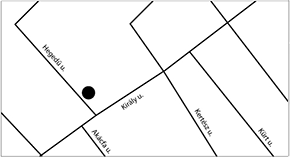
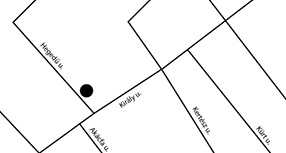
fixed css: legend, map, datepicker

diff --git a/assets/css/style.css b/assets/css/style.css
@@ -176,6 +176,11 @@ body {
 body {
   font-family: 'Source Sans Pro', arial, verdana;
 }
+#ui-datepicker-div {
+  -moz-box-shadow: 8px 8px 15px #555;
+  -webkit-box-shadow: 8px 8px 15px #555;
+  box-shadow: 8px 8px 15px #555;
+}
 body#intro_page {
   overflow: hidden;
   background-image: url('../img/intro/bg_grid_2.gif');
@@ -256,10 +261,38 @@ body#main_page #wrapper_content #logo_small {
   margin-left: 100px;
 }
 body#main_page #wrapper_content #legend {
-  width: 679px;
   height: 59px;
   margin-left: 80px;
-  margin-top: -30px;
+  margin-top: -15px;
+  text-align: left;
+}
+body#main_page #wrapper_content #legend div {
+  display: inline-block;
+  float: left;
+  width: 120px;
+  height: 25px;
+  margin-left: 10px;
+  margin-top: 2px;
+}
+body#main_page #wrapper_content #legend #icon_unavailable,
+body#main_page #wrapper_content #legend #icon_available,
+body#main_page #wrapper_content #legend #icon_reserved {
+  width: 70px;
+  margin-top: 0px;
+  border: 1px solid black;
+  -moz-box-shadow: 8px 8px 15px #CCCCCC;
+  -webkit-box-shadow: 8px 8px 15px #CCCCCC;
+  box-shadow: 8px 8px 15px #CCCCCC;
+}
+body#main_page #wrapper_content #legend #icon_unavailable {
+  background-color: lightgrey;
+}
+body#main_page #wrapper_content #legend #icon_available {
+  background-color: white;
+}
+body#main_page #wrapper_content #legend #icon_reserved {
+  background-image: url('../img/main/reserved.png');
+  background-size: 70px 25px;
 }
 body#main_page #wrapper_content #prev_month,
 body#main_page #wrapper_content #arrow_left,

diff --git a/assets/css/style.less b/assets/css/style.less
@@ -11,6 +11,12 @@ body {
 	font-family: 'Source Sans Pro', arial, verdana;
 }
 
+#ui-datepicker-div {
+		 -moz-box-shadow: 8px 8px 15px #555;
+	-webkit-box-shadow: 8px 8px 15px #555;
+					box-shadow: 8px 8px 15px #555;
+}
+
 /////// intro page ////////////////////////////////////////////////////////////
 
 body#intro_page {
@@ -112,10 +118,42 @@ body#main_page {
 			
 		
 		#legend {
-			width: 679px;
+			//width: 679px;
 			height: 59px;
 			margin-left: 80px;
-			margin-top: -30px;
+			margin-top: -15px;
+			text-align: left;
+			
+			div {
+				display: inline-block;
+				float: left;
+				width: 120px;
+				height: 25px;
+				margin-left: 10px;
+				margin-top: 2px;
+			}
+			
+			#icon_unavailable, #icon_available, #icon_reserved {
+				width: 70px;
+				margin-top: 0px;
+				border: 1px solid black;
+					 -moz-box-shadow: 8px 8px 15px #CCCCCC;
+				-webkit-box-shadow: 8px 8px 15px #CCCCCC;
+								box-shadow: 8px 8px 15px #CCCCCC;
+			}
+			
+			#icon_unavailable {
+				background-color: lightgrey;
+			}
+			
+			#icon_available {
+				background-color: white;
+			}
+			
+			#icon_reserved {
+				background-image: url('../img/main/reserved.png');
+				background-size: 70px 25px;
+			}
 		}
 		
 		#prev_month, #arrow_left, #next_month, #arrow_right {

diff --git a/application/views/booking/booking_js.php b/application/views/booking/booking_js.php
@@ -37,7 +37,7 @@
 	// left menu items
 	
 	var item_info = 'Lorem ipsum dolor sit amet, consectetur adipisicing elit, sed do eiusmod tempor incididunt ut labore et dolore magna aliqua. Ut enim ad minim veniam, quis nostrud exercitation ullamco laboris nisi ut aliquip ex ea commodo consequat. Duis aute irure dolor in reprehenderit in voluptate velit esse cillum dolore eu fugiat nulla pariatur. Excepteur sint occaecat cupidatat non proident, sunt in culpa qui officia deserunt mollit anim id est laborum.';
-	var item_map = '<img id="map" src="<?= base_url() ?>assets/img/main/map.png" alt="" title="" />';
+	var item_map = '<img id="map" src="<?= base_url() ?>assets/img/main/map.png" alt="" title="" style="margin-left: -15px; border: 1px solid black; -moz-box-shadow: 8px 8px 15px #CCCCCC; -webkit-box-shadow: 8px 8px 15px #CCCCCC; box-shadow: 8px 8px 15px #CCCCCC;"/>';
 	var item_contact = 'Budapest 1023<br/>Akármi  utca 16.<br/>T.: 0036/12321315<br/>info@funlock.hu';
 	
 	function replaceAll(txt, replace, with_this) {

diff --git a/application/views/booking/booking.php b/application/views/booking/booking.php
@@ -18,7 +18,14 @@
 				<span id="table_wrapper"><?php $this->load->view('booking/calendar', array('reserved_dates' => $reserved_dates, 'ref_time' => time(), 'selected_appointment' => 0)); ?></span>
 				<span id="next_month"><?= img(array('src' => base_url().'assets/img/main/arrow_right.png', 'id' => 'arrow_right')) ?></span>
 			</div>
-			<?= img(array('src' => base_url().'assets/img/main/legend.png', 'id' => 'legend')) ?>
+			<div id="legend">
+				<div id="icon_unavailable"></div>
+				<div>Nem elérhető</div>
+				<div id="icon_available"></div>
+				<div>Szabad</div>
+				<div id="icon_reserved"></div>
+				<div>Foglalt</div>
+			</div>
 			<div id="booking_details">
 				<?php $this->load->view('booking/form', array('status_code' => '')); ?>
 			</div>
